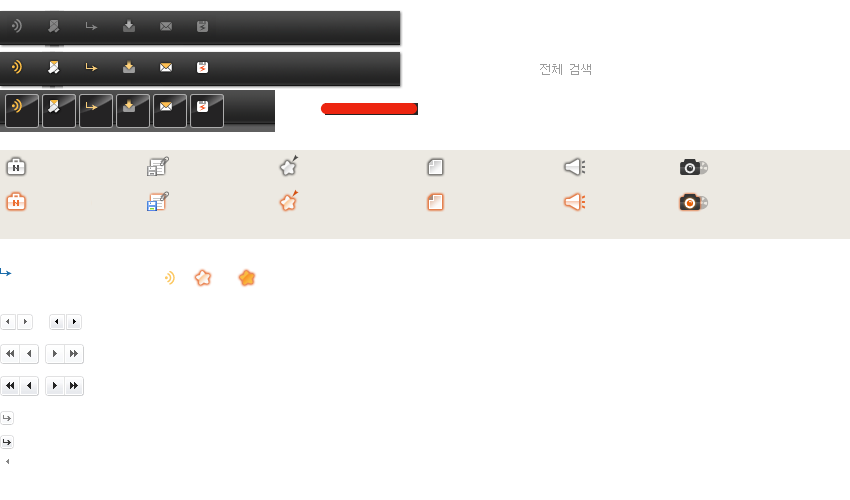
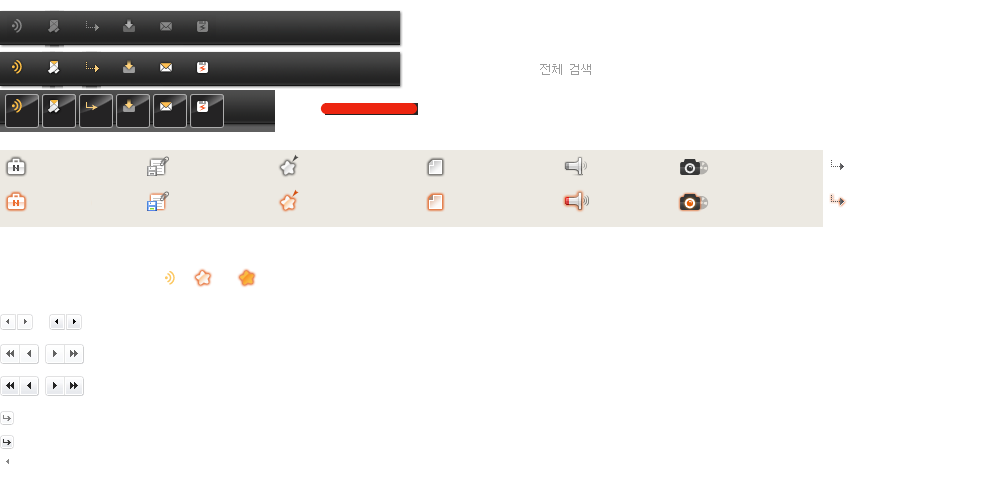
css

diff --git a/WebContent/css/black/layout.css b/WebContent/css/black/layout.css
@@ -293,11 +293,11 @@ li.fvrt_item:hover .check_option {display:block}
 
 /* CommentsBox added by ysjung */
 tr.instance_list {}
-tr.instance_list:hover {background-color:#fffccd; cursor:pointer}
+tr.instance_list:hover {background-color:#fff7eb; cursor:pointer}
 li.sub_instance_list > div.det_title {}
-li.sub_instance_list > div.det_title:hover {background-color:#fffccd; cursor:pointer}
+li.sub_instance_list > div.det_title:hover {background-color:#fff7eb; cursor:pointer}
 li.comment_list {}
-li.comment_list:hover {background-color:#fffccd; cursor:pointer}
+li.comment_list:hover {background-color:#fff7eb; cursor:pointer}
 .arr_off {background: url("../../images/arr_off.gif") no-repeat left 1px transparent; height:9px; padding:0 0 10px 13px}
 .arr_on {background: url("../../images/arr_on.gif") no-repeat left 1px transparent; height:9px; padding:0 0 10px 13px}
 
@@ -333,9 +333,9 @@ li.comment_list:hover {background-color:#fffccd; cursor:pointer}
 #upload div a:hover, #upload div a:focus, #upload div a:active, #upload div a:link, #upload div a:visited {color: #333333; text-decoration:none}
 #upload div {float:left; padding-right:15px}
 
-.up_wrap {position:relative; margin: 0 3px 5px}
+.up_wrap {position:relative; margin: 0 0 5px}
 .upload_up_wrap {width:760px}
-.detail_up_wrap {margin:0 15px 15px} /* 상세보기 페이지의 up_wrap */ 
+.detail_up_wrap {margin:0 15px 10px} /* 상세보기 페이지의 up_wrap */ 
 
 /* UpLoad Search */
 .start_works_input {position:relative}
@@ -347,25 +347,26 @@ li.comment_list:hover {background-color:#fffccd; cursor:pointer}
 
 /* upload Icon */
 .up_works a {background: url("../../images/header_nico.png") no-repeat -4px -155px; height:22px; width:39px; padding:4px 0 3px 26px; display:block}
-.up_works a:hover, .up_works .current,  .up_works a.current:hover {background: url("../../images/header_nico.png") no-repeat -4px -190px; font-weight:bold}
+.up_works a:hover, .up_works .current,  .up_works a.current:hover {background-position: -4px -190px; font-weight:bold}
 
 .up_file a {background: url("../../images/header_nico.png") no-repeat -147px -155px; height:22px; width:26px; padding:4px 0 3px 25px; display:block}
-.up_file a:hover, .up_file .current,  .up_file a.current:hover {background: url("../../images/header_nico.png") no-repeat -147px -190px; font-weight:bold}
+.up_file a:hover, .up_file .current,  .up_file a.current:hover {background-position: -147px -190px; font-weight:bold}
 
 .up_pic a {background: url("../../images/header_nico.png") no-repeat -677px -155px; height:22px; width:27px; padding:4px 0 3px 34px; display:block}
-.up_pic a:hover, .up_pic .current,  .up_pic a.current:hover {background: url("../../images/header_nico.png") no-repeat -677px -190px; font-weight:bold}
+.up_pic a:hover, .up_pic .current,  .up_pic a.current:hover {background-position: -677px -190px; font-weight:bold}
 
 .up_event a {background: url("../../images/header_nico.png") no-repeat -278px -155px; height:22px; width:39px; padding:4px 0 3px 22px; display:block}
-.up_event a:hover, .up_event .current,  .up_event a.current:hover {background: url("../../images/header_nico.png") no-repeat -278px -190px; font-weight:bold}
+.up_event a:hover, .up_event .current,  .up_event a.current:hover {background-position: -278px -190px; font-weight:bold}
 
 .up_memo a {background: url("../../images/header_nico.png") no-repeat -426px -155px; height:22px; width:29px; padding:4px 0 3px 23px; display:block}
-.up_memo a:hover, .up_memo .current,  .up_memo a.current:hover {background: url("../../images/header_nico.png") no-repeat -426px -190px; font-weight:bold}
+.up_memo a:hover, .up_memo .current,  .up_memo a.current:hover {background-position: -426px -190px; font-weight:bold}
 
-.up_comment a {background: url("../../images/header_nico.png") no-repeat -426px -155px; height:22px; width:29px; padding:4px 0 3px 23px; display:block}
-.up_comment a:hover, .up_comment .current,  .up_comment a.current:hover {background: url("../../images/header_nico.png") no-repeat -426px -190px; font-weight:bold}
+.up_comment a {background: url("../../images/header_nico.png") no-repeat -827px -155px; height:22px; width:29px; padding:4px 0 3px 23px; display:block}
+.up_comment a:hover, .up_comment .current,  .up_comment a.current:hover {background-position: -827px -190px; font-weight:bold}
 
 .up_board a {background: url("../../images/header_nico.png") no-repeat -564px -155px; height:22px; width:26px; padding:4px 0 3px 27px; display:block}
-.up_board a:hover, .up_board .current,  .up_board a.current:hover {background: url("../../images/header_nico.png") no-repeat -564px -190px; font-weight:bold}
+.up_board a:hover, .up_board .current,  .up_board a.current:hover {background-position: -564px -190px; font-weight:bold}
+
 
 /* Table Format */
 .up {border:1px solid #c7c7c7; padding: 0; vertical-align:middle; background-color: #FFF} /* 높이가 있는 라인박스 쓸때 */
@@ -419,7 +420,7 @@ li.comment_list:hover {background-color:#fffccd; cursor:pointer}
 .com_list li {position:relative; color:#454545}
 .com_list li a {padding:4px 8px; display:block; overflow: hidden; vertical-align:middle; position:relative; top:50%; color:#454545}
 /*.com_list li a:hover {display:block; background-color:#fffccd; color:#454545}*/
-.com_list li.sw_hover {display:block; background-color:#fffccd; color:#454545}
+.com_list li.sw_hover {display:block; background-color:#fff7eb; color:#454545}
 .com_list .nav_sub_area {display: inline; float: left; position: relative; width: 410px}
 
 /* 입력폼 */
@@ -522,15 +523,15 @@ li.comment_list:hover {background-color:#fffccd; cursor:pointer}
 .cell_date {display:inline-block;border-bottom:1px dotted #cfcfcf;padding:0 5px 1px 5px;margin-bottom:3px}
 
 .event_cell li.event_list {}
-.event_cell li.event_list:hover {background-color:#fffccd; cursor:pointer; text-decoration: none}
+.event_cell li.event_list:hover {background-color:#fff7eb; cursor:pointer; text-decoration: none}
 
 /* Noice */
-.noti_pic {float:left; margin-right: 5px;margin-left: 3px}
+.noti_pic {float:left; margin: 0 5px 0 0}
 .noti_in_bodytitle {word-wrap: break-word; text-align:left; vertical-align:middle; float:left; line-height:16px; width:65%} /* Body Title로 들어갈 때 */
 .noti_in { margin-left:33px; line-height: 14px}
 .noti_in [type="text"] {border:1px solid #c7c7c7; width:101px; height:20px} /* 전자결재 - 결재선 */
 .noti_in_s { margin-left:25px; line-height: 16px}
-.noti_in_m {word-wrap: break-word; text-align:left; padding:2px 0 0 58px} /* M사이즈 등록글 사용시*/
+.noti_in_m {word-wrap: break-word; text-align:left; padding:2px 0 0 58px; line-height:16px} /* M사이즈 등록글 사용시*/
 .noti_in_m + div {line-height: 19px}
 .recent_notice { border-bottom:none !important}
 .recent_notice .end td {border-bottom:none !important}
@@ -548,7 +549,7 @@ li.comment_list:hover {background-color:#fffccd; cursor:pointer}
 .event_space .eventCell li { width: auto}
 .cell_date {display:inline-block; border-bottom:1px dotted #cfcfcf; padding:0 5px 1px 5px; margin-bottom:3px}
 .event_cell li.event_list {}
-.event_cell li.event_list:hover {background-color:#fffccd; cursor:pointer; text-decoration: none}
+.event_cell li.event_list:hover {background-color:#fff7eb; cursor:pointer; text-decoration: none}
 
 /* Noice old */
 /* .notice {overflow:hidden; margin:0 12px 0 15px; padding-top:10px; border-top:1px solid #ededed}

diff --git a/WebContent/css/black/detail.css b/WebContent/css/black/detail.css
@@ -41,14 +41,14 @@
 /* 본문 컨텐츠 */
 .define_space {padding: 0 25px; overflow: hidden} /* 상하 여백이 필요 없을때 */
 .contents_space {padding: 0 25px 10px}
-.contents_space .det_title, .replay .det_title {padding:3px 0; overflow:hidden} /* 타이틀 */
+.contents_space .det_title, .reply .det_title {padding:5px 0; overflow:hidden} /* 타이틀 */
 .contents_space .area {padding:10px}
 .contents_space .border {border:1px solid #c7c7c7; background-color:#FFF; padding:10px}
 .contents_space .border_no_topline{border:1px solid #c7c7c7;border-width:0 1px 1px 1px;background-color:#FFF; padding:10px}
 .contents_space table > td,
 .contents_space table > th { padding:3px 10px} 
 
-/* Replay Info */
+/* Reply Info */
 .task_information {vertical-align:bottom; float:left}
 
 /* 공간 영역 */
@@ -66,18 +66,22 @@
 
 /* 본문 댓글 관련 */
 .reply_point {background: url("../../images/reply_point.gif") no-repeat left top; width:11px; height:7px; margin-top: 5px}
-.reply_section {background-color:#eef2f6; padding:10px; width:600px; margin-bottom:5px}
-.replay {margin:10px 15px 0 15px} /* 상세페이지에 댓글,업무,메모 입력 영역*/
-.replay .bg {background-color:#ededed}
+.reply_section {background-color:#ebf2fa; padding:10px; width:600px; margin-bottom:5px}
+.reply {margin:0 15px} /* 상세페이지에 댓글,업무,메모 입력 영역*/
+.reply .bg {background-color:#ededed}
 .list_reply {margin:0} /* 댓글 목록 */
-.reply_input {margin-top:10px} /* 댓글 입력 영역 */
-.list_reply li, .replay > ul > li, .space_section li {border-bottom: 1px dashed #9c9c9c; vertical-align: middle; padding:5px 0; overflow: hidden}
-.list_reply .end, .replay .end, .noborder li {border-bottom: none !important; vertical-align: middle}
+.reply_input {margin:5px 0 0 0} /* 댓글 입력 영역 */
+#upload_form_box .reply_input {margin:5px} /* Reply Input in upload_form_box */
+
+.list_reply li, .reply > ul > li, .space_section li {border-bottom: 1px dashed #9c9c9c; vertical-align: middle; overflow: hidden}
+.list_reply li {padding:0}
+.list_reply .end, .reply .end, .noborder li {border-bottom: none !important; vertical-align: middle}
 .repl_tinfo {background: url("../../images/header_nico.png") no-repeat 4px -267px; padding:0 0 0 20px}
 .repl_write {background: url("../../images/header_nico.png") no-repeat 0 -411px; padding: 2px 0 1px 17px; font-size: 11px; color: #23579E;  margin-left: 5px}
 a .repl_write:hover {background: url("../../images/header_nico.png") no-repeat 0 -435px; text-decoration: underline}
-.replay .approval_stage {float: left; height: 21px; margin-right: 5px; min-width: 60px; line-height:22px}
-.replay li a img, .replay li img {float:left; margin-right:5px} 
+.reply .approval_stage {float: left; height: 21px; margin-right: 5px; min-width: 60px; line-height:22px}
+.reply li a img, .reply li img {float:left} 
+.btns_action {margin:0 0 5px 70px}
 
 /* 목록보기 부분 타이틀 */
 /*.list_title_space {background-color:#ededed; padding:7px 5px; overflow:hidden}*/

diff --git a/WebContent/css/black/chat.css b/WebContent/css/black/chat.css
@@ -48,7 +48,7 @@
 .chat_input_section {margin: 0 2px 2px 2px; background-color:#FFF;}
 .chatter_list_area {padding: 5px; border:1px solid #c7c7c7; background-color: #FFF; margin: 0 5px 5px; width: 194px; z-index: 200; position: absolute;}
 .chatter_list_area li a, .chat_de_list li a { padding: 4px 5px; vertical-align: top; color: #454545; font-size:11px; display:block;}
-.chatter_list_area li a, .chat_de_list li a:hover { display:block; background-color:#fffccd;}
+.chatter_list_area li a, .chat_de_list li a:hover { display:block; background-color:#fff7eb}
 .chat_online {float: right; background: url("../../images/chat_img.png") no-repeat scroll 0 -99px transparent; display:inline-block; height: 10px; width: 10px;}
 .chat_offline {float: right; background: url("../../images/chat_img.png") no-repeat scroll 0 -117px transparent; display:inline-block; height: 10px; width: 10px;}
 .chatter_list_area li.chat_off_user, .chat_de_list li.chat_off_user {color:#b6b6b6;}

diff --git a/WebContent/css/black/pop.css b/WebContent/css/black/pop.css
@@ -14,7 +14,7 @@
 .pop_list_area > ul,.pop_list_area form > ul {max-height:330px; overflow-y:auto}
 
 .pop_list_area li {display:block}
-.pop_list_area li>span:hover {display:block; background-color:#fffccd; text-decoration: none;}
+.pop_list_area li>span:hover {display:block; background-color:#fff7eb; text-decoration: none;}
 
 .pop_list_area li .dep {padding:2px 0 2px 10px; display:block; overflow: hidden; vertical-align:middle; position:relative; top:50%;}
 .pop_list_area li .menu_2dep li {padding:0 0 0 13px}
